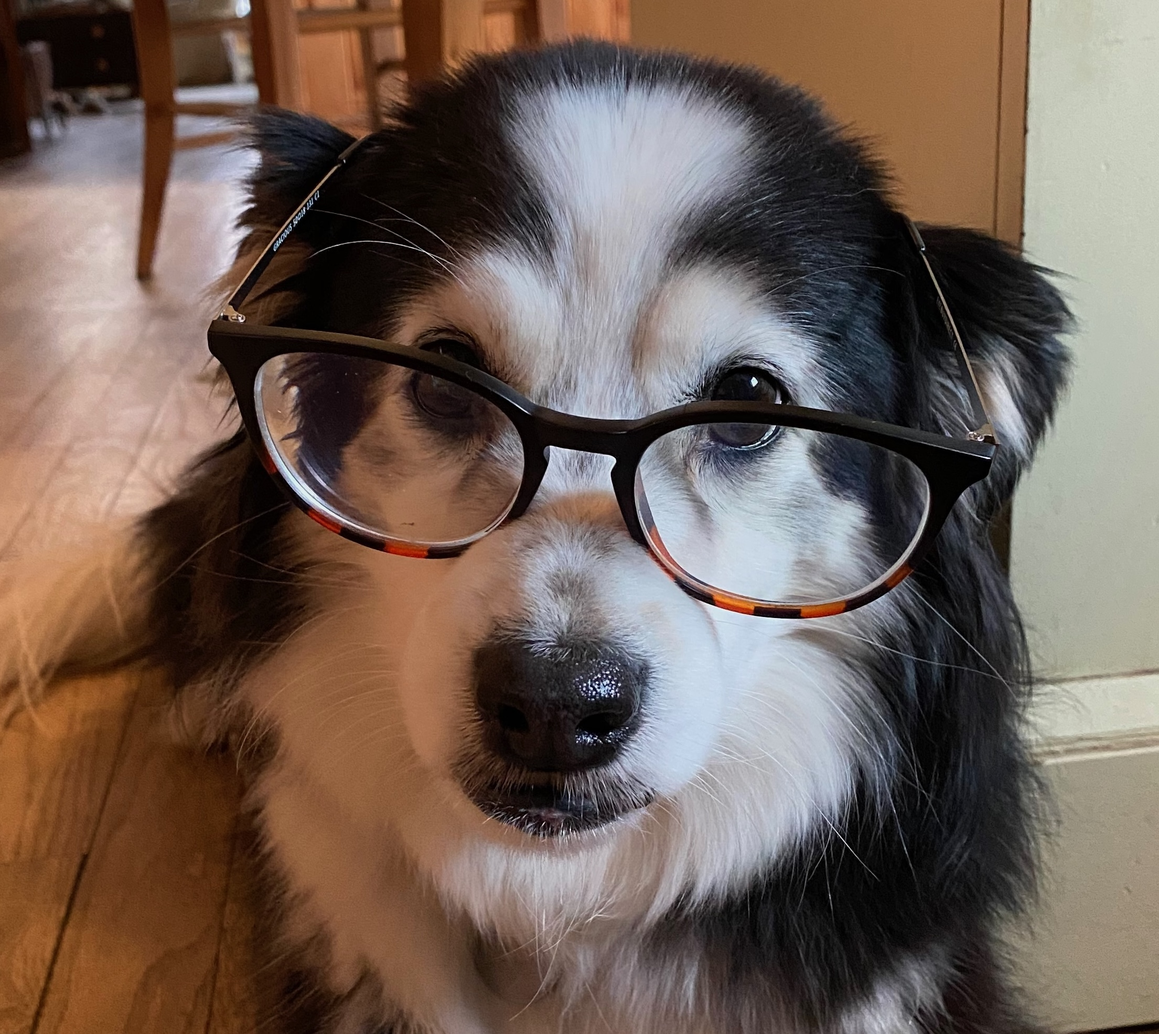
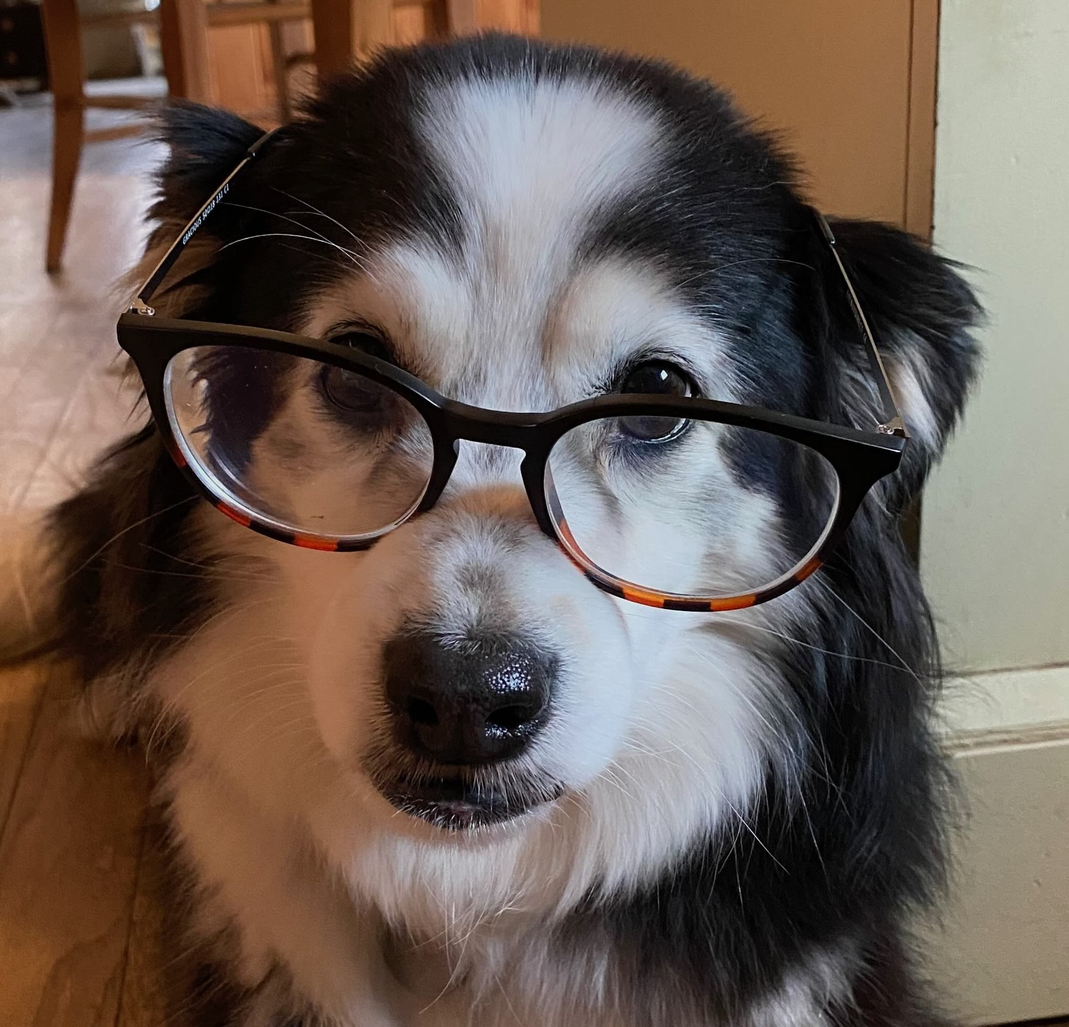
Compress images

diff --git a/src/subpages/contact.js b/src/subpages/contact.js
@@ -6,9 +6,13 @@ import matsuImage from "../img/matsu.jpeg";
 function createContactCard(name, title, phone, email, image) {
     const card = document.createElement("div");
     card.id = "contact-card";
+
+    const imgContainer = document.createElement("div");
+    imgContainer.className = "contact-image";
     const profilePic = document.createElement("img");
     profilePic.src = image;
     profilePic.alt = name;
+    imgContainer.appendChild(profilePic);
 
     const dogName = document.createElement("h3");
     dogName.textContent = name;
@@ -23,7 +27,7 @@ function createContactCard(name, title, phone, email, image) {
     dogEmail.href = "mailto:" + email;
     dogEmail.textContent = email;
 
-    card.appendChild(profilePic);
+    card.appendChild(imgContainer);
     card.appendChild(dogName);
     card.appendChild(dogTitle);
     card.appendChild(dogPhone);

diff --git a/src/styles.css b/src/styles.css
@@ -3,12 +3,12 @@
     width: 50px;
 }
 
-#info img {
-    height: 50px;
-    height: 50px;
+.contact-image img {
+    object-fit: contain;
 }
 
-#contact-card img {
+.contact-image {
+    object-fit: contain;
     height: 100px;
     height: 100px;
 }
